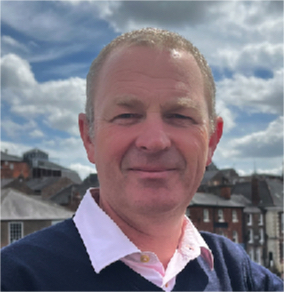
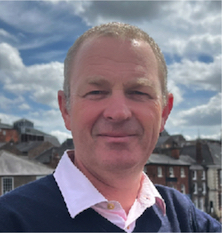
Change images

diff --git a/content/team/joanne-moore.md b/content/team/joanne-moore.md
@@ -1,7 +1,7 @@
 ---
 title: "JoAnne Moore"
 date: 2020-11-01T12:49:27+06:00
-featureImage: images/team/joanne-moore.jpg
+featureImage: images/team/jhm-york.png
 tags: website
 categories: team
 description: "Co-Founder & Director" 
